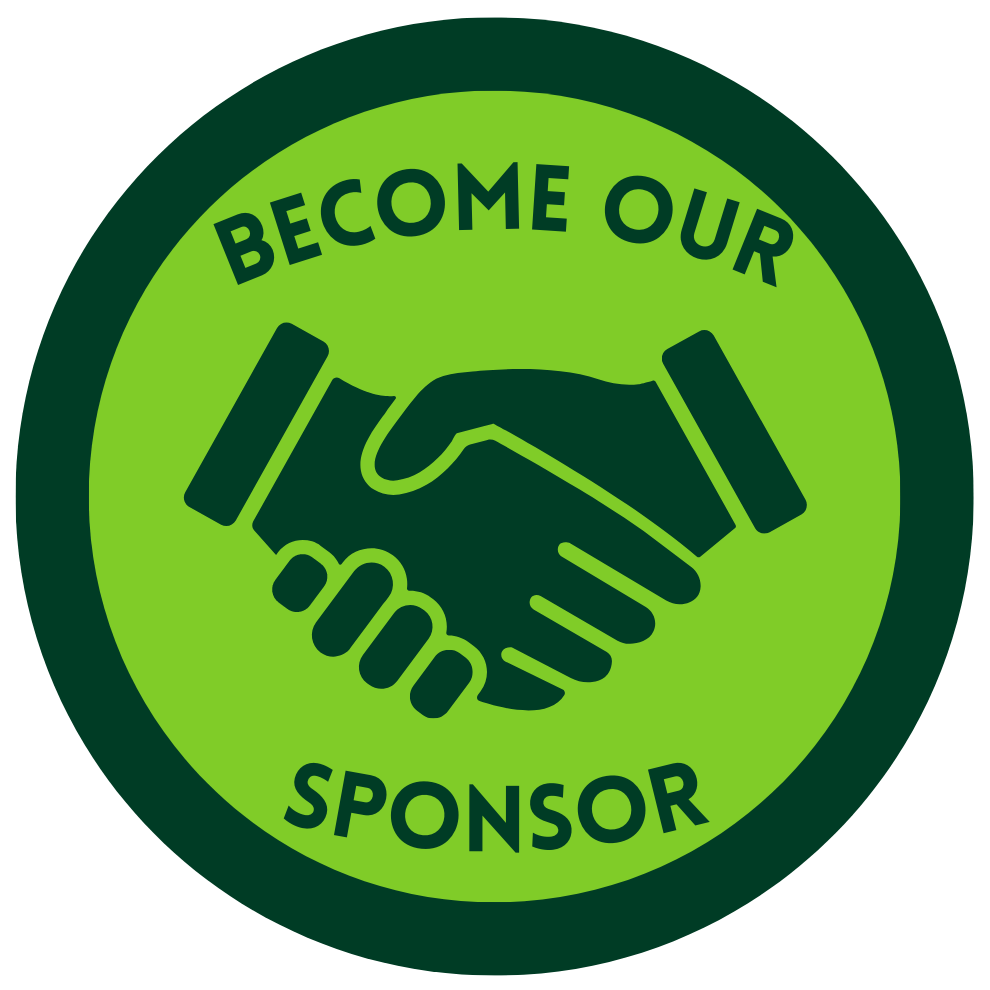
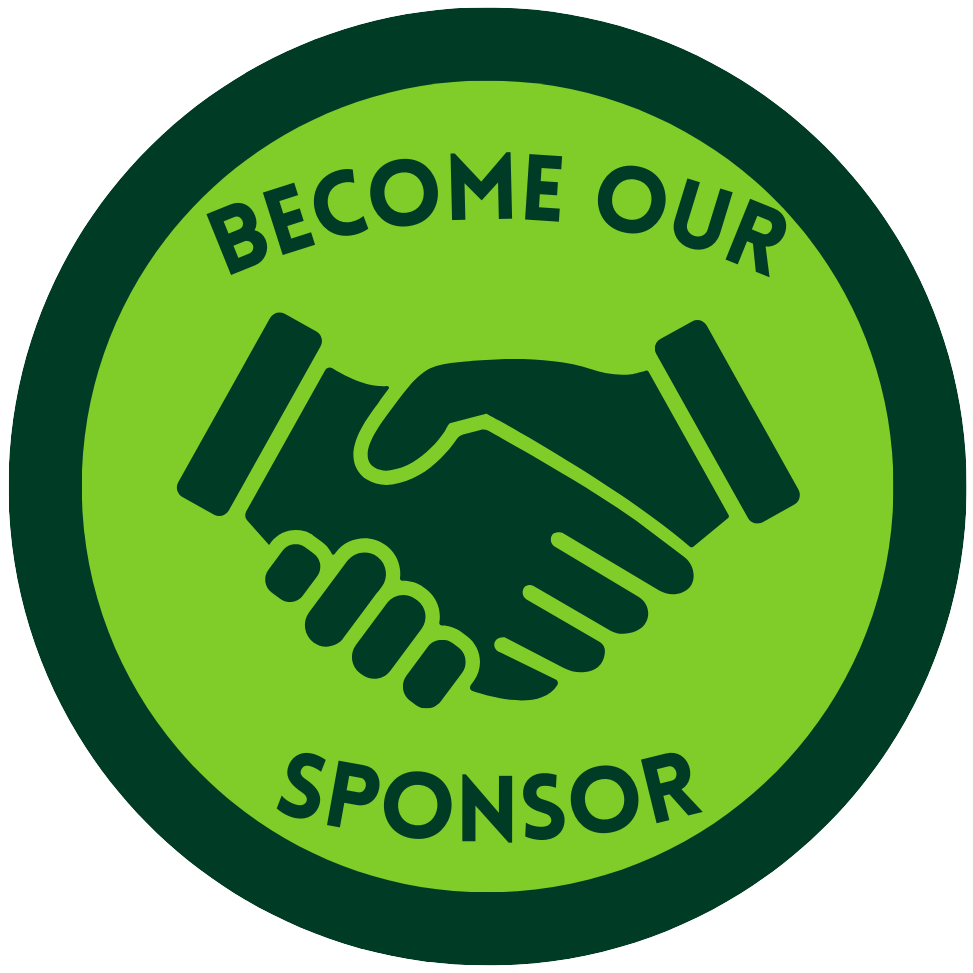
fix inline style in the invite circle

diff --git a/js/main.js b/js/main.js
@@ -2,35 +2,6 @@
  * This file contains functions related to the navigation bar and to the speakers cards.
  */
 
-// SponsorCard list. category options are gold, silver and bronze.
-const sponsors = [
-  {
-    url: "https://www.esri.com/en-us/home",
-    imgsrc: "images/partners/esri-new.png",
-    category: "gold",
-    style: "padding: 20px; width:160px; height:110px; margin:30px 0px;",
-  },
-  {
-    url: "https://www.con-terra.com/",
-    imgsrc: "images/sponsors/Logo_con-terra.png",
-    category: "gold",
-    style: "padding: 20px",
-  },
-  {
-    url: "https://52north.org/",
-    imgsrc: "images/sponsors/Logo_52North.png",
-    category: "silver",
-    style: "padding: 20px",
-  },
-  {
-    url: "",
-    imgsrc: "images/sponsors/Become_our_sponsor.png",
-    category: "gold",
-    style: "width: 160px; height: auto; align-items: center; margin-top: 3px;",
-  },
-];
-
-console.log("try");
 // ----------------------------NEW CODE----------------------------------------------//
 $(document).ready(function () {
   // Load the content of nav.html into the element with the ID 'nav-placeholder'
@@ -66,14 +37,40 @@ $(document).ready(function () {
       $(this).siblings(".has-dropdown").find(".main-menu-dropdown").slideUp();
     });
   });
+
+  //   addSponsorsCards();
 });
 
-document.addEventListener("DOMContentLoaded", () => {
-  addSponsorsCards();
-});
+// SponsorCard list. category options are gold, silver and bronze.
+const sponsors = [
+  {
+    url: "https://www.esri.com/en-us/home",
+    imgsrc: "images/partners/esri-new.png",
+    category: "gold",
+    style: "padding: 20px; width:160px; height:110px; margin:30px 0px;",
+  },
+  {
+    url: "https://www.con-terra.com/",
+    imgsrc: "images/sponsors/Logo_con-terra.png",
+    category: "gold",
+    style: "padding: 20px",
+  },
+  {
+    url: "https://52north.org/",
+    imgsrc: "images/sponsors/Logo_52North.png",
+    category: "silver",
+    style: "padding: 20px",
+  },
+  {
+    url: "",
+    imgsrc: "images/sponsors/Become_our_sponsor.png",
+    category: "gold",
+    style: "width: 160px; height: auto; align-items: center; margin-top: 3px;",
+  },
+];
 
 function addSponsorsCards() {
-  let container = document.getElementById("sponsors-container");
+  //   let container = document.getElementById("sponsors-container");
 
   sponsors.forEach((sponsor) => {
     let div = createSponsorCard(sponsor);
@@ -82,30 +79,6 @@ function addSponsorsCards() {
 }
 
 function createSponsorCard(sponsor) {
-  let div = document.createElement("div");
-  div.classList.add("sponsor-circle-div");
-  div.classList.add(sponsor.category);
-
-  let helperSpan = document.createElement("span");
-  helperSpan.classList.add("helper");
-
-  let img = document.createElement("img");
-  img.classList.add("sponsor-circle");
-  img.src = sponsor.imgsrc;
-
-  if (sponsor.url === "") {
-    div.appendChild(helperSpan);
-    div.appendChild(img);
-  } else {
-    let a = document.createElement("a");
-    a.href = sponsor.url;
-    a.target = "_blank";
-    a.appendChild(helperSpan);
-    a.appendChild(img);
-
-    div.appendChild(a);
-  }
-
   return div;
 }
 

diff --git a/index.html b/index.html
@@ -380,7 +380,27 @@
                 <br>
                 <h2>Sponsors</h2>
             </header>
-            <div id="sponsors-container" class="sponsors-all">
+            <div class="sponsors-all">
+                <!-- <div class="sponsor-circle-div gold ">
+                    <a href="https://www.esri.com/en-us/home" target="_blank">
+                        <img class="sponsor-circle" style="padding: 20px; width:160px; height:110px; margin:30px 0px;  "
+                            src="images/partners/esri-new.png">
+                    </a>
+                </div>
+                <div class="sponsor-circle-div gold">
+                    <a href="https://www.con-terra.com/" target="_blank">
+                        <img class="sponsor-circle" style="padding: 20px" src="images/sponsors/Logo_con-terra.png">
+                    </a>
+                </div>
+                <div class="sponsor-circle-div silver">
+                    <a href="https://52north.org/" target="_blank">
+                        <img class="sponsor-circle" style="padding: 20px" src="images/sponsors/Logo_52North.png">
+                    </a>
+                </div> -->
+                <div class="sponsor-circle-div gold ">
+                    <img class="invite-circle"
+                        src="images/sponsors/Become_our_sponsor.png">
+                </div>
             </div>
             <br>
             <header>
@@ -388,8 +408,7 @@
             </header>
             <div id="media-partner-container" class="sponsors-all">
                 <div class="sponsor-circle-div partner">
-                    <img class="sponsor-circle"
-                        style="width: 165px; height: auto; align-items: center; margin-top: 2px;"
+                    <img class="invite-circle"
                         src="images/sponsors/Become_our_media_partner.png">
                     </a>
                 </div>

diff --git a/assets/css/main.css b/assets/css/main.css
@@ -2723,18 +2723,15 @@ textarea {
 }
 
 .sponsor-circle {
-    max-height: 160px;
-    max-width: 160px;
-    width: 160px;
-    height: auto;
-    padding: 5%;
-    vertical-align: middle;
+    width: 150px;
+    height: 150px;
 }
 
-.helper {
-    display: inline-block;
-    height: 100%;
-    vertical-align: middle;
+.invite-circle {
+    width: 165px;
+    height: auto;
+    align-items: center;
+    margin-top: 2px;
 }
 
 .sponsor-circle-div {
